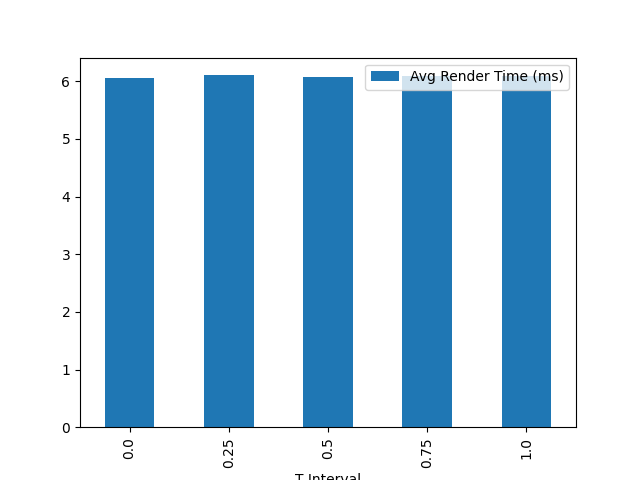
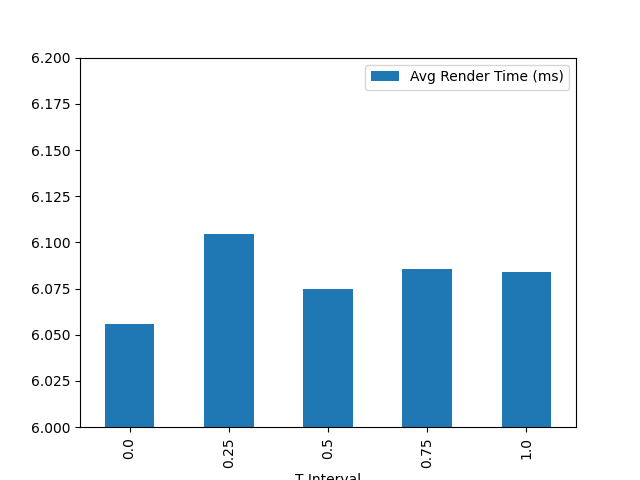
fixed y-axis range for t interval graphcs

diff --git a/benchmark_results/create_figures.py b/benchmark_results/create_figures.py
@@ -21,7 +21,7 @@ def create_dataset(files, renderPassColumns: list[str]):
 
     return df_results
 
-def create_t_barchart(df: pd.DataFrame, filename: str):
+def create_t_barchart(df: pd.DataFrame, filename: str, ylimits):
     T_LIST = [ 0.0, 0.25, 0.50, 0.75, 1.00 ]
     t_data = {
         'T Interval': [],
@@ -35,13 +35,14 @@ def create_t_barchart(df: pd.DataFrame, filename: str):
 
     avgd_df = pd.DataFrame(t_data)
     avgd_df.plot.bar('T Interval', 'Avg Render Time (ms)')
+    plt.ylim(ylimits[0], ylimits[1])
     plt.savefig(filename)
 
 pt_df = create_dataset(PT_FILES, PT_RP_COLS)
 hr_df = create_dataset(HR_FILES, HR_RP_COLS)
 
-create_t_barchart(hr_df, 'hr_avg_rendertime.png')
-create_t_barchart(pt_df, 'ht_avg_rendertime.png')
+create_t_barchart(hr_df, 'hr_avg_rendertime.png', [ 6.0, 6.2 ])
+create_t_barchart(pt_df, 'pt_avg_rendertime.png', [ 2.1, 2.3 ])
 
 # TODO: calculate mean render time & as build time per cam position per interval
 # TODO: create figures for total render time & as build time, per t interval, per cam position
